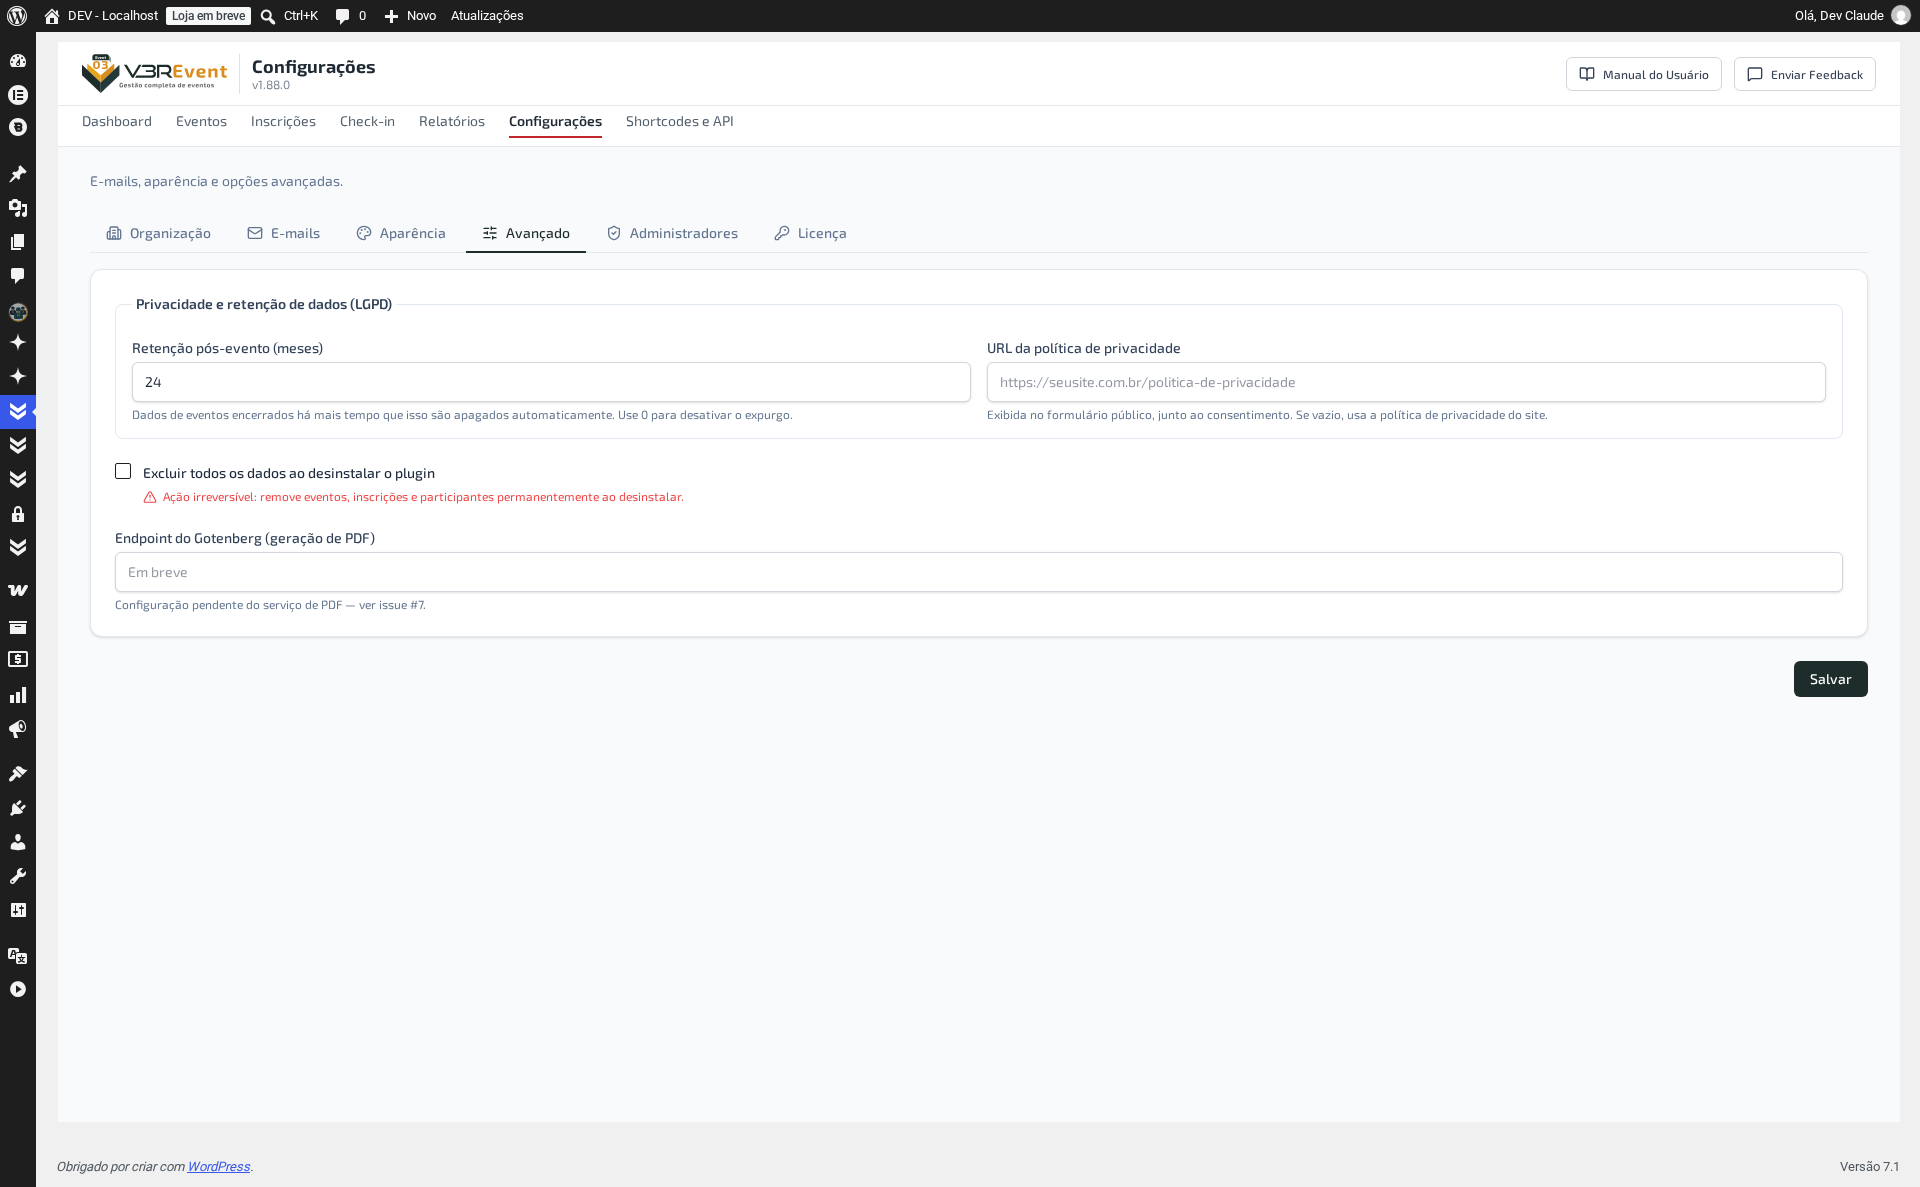
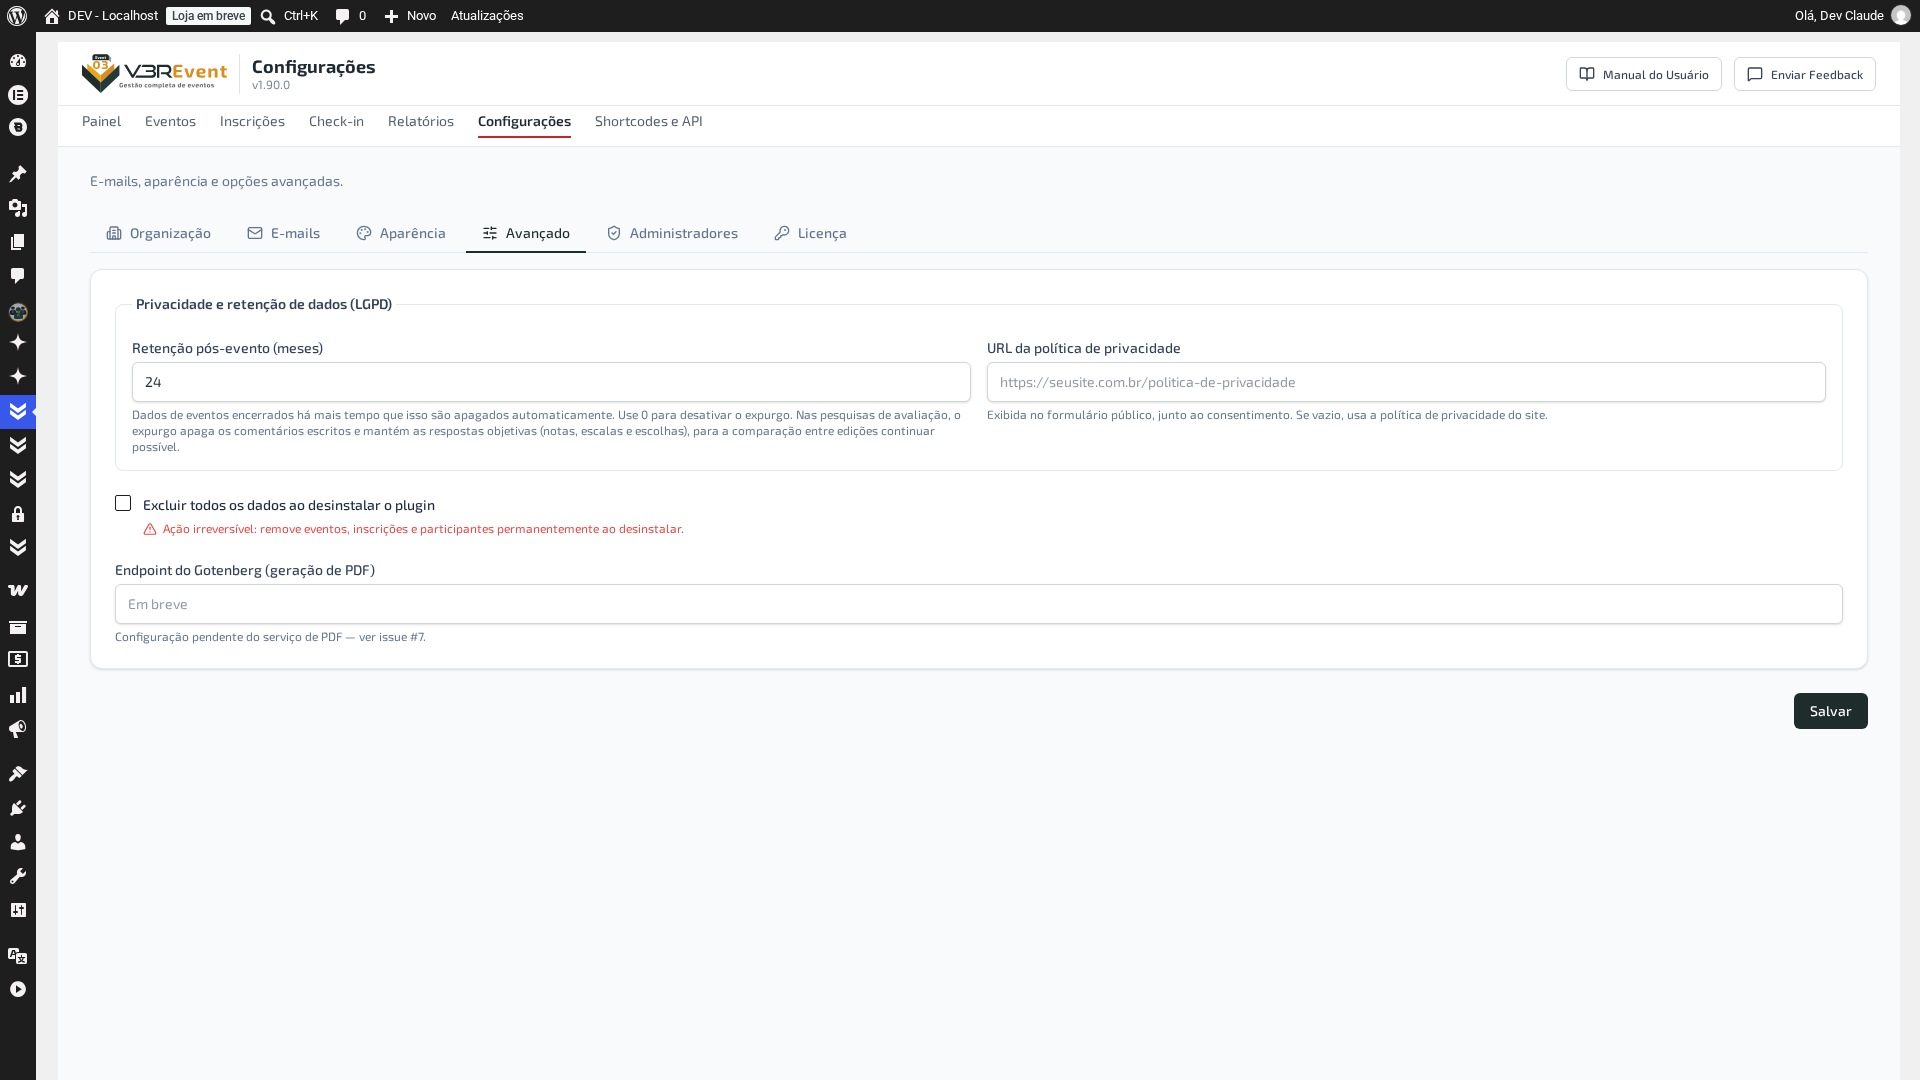
docs(manual): v1.90.0 — o que acontece com os comentários da avaliação
- Aba Avaliação e Configurações → Avançado: passado o prazo de retenção, as
  notas e escolhas permanecem e o texto escrito é apagado (#190)
- Por que um pedido de exclusão de participante não mexe nas respostas de
  avaliação — elas são anônimas, e apagar pelo único vínculo disponível
  apagaria o comentário de todos os respondentes daquele evento (#190)
- Política de privacidade: a mesma explicação em Direitos dos titulares e
  em Retenção e eliminação, para quem lê o documento direto
- Capturas das duas telas refeitas com a frase nova visível

diff --git a/legal/privacidade.md b/legal/privacidade.md
@@ -80,9 +80,13 @@ A responsabilidade por contratar esses serviços e garantir conformidade (inclus
 
 Os titulares (os participantes e responsáveis) têm os direitos previstos na LGPD — confirmação, acesso, correção, eliminação, portabilidade, entre outros. Como controlador, você os atende diretamente: o plugin oferece ferramentas de **exportação** e **exclusão/anonimização** de dados de um titular (por código de inscrição ou e-mail), além das telas de inscrições e relatórios para localizar e conferir os registros.
 
+**Exceção: as respostas de avaliação.** Um pedido de exclusão **não** apaga nem altera as respostas da pesquisa de avaliação do evento. Como a pesquisa é anônima, não existe vínculo entre a resposta e a pessoa — o único identificador disponível é o do evento, e apagar por ele eliminaria o comentário de **todos** os respondentes, não só do titular que pediu. O risco de identificação nos comentários escritos é tratado pelo **prazo de retenção** (abaixo), não pela exclusão individual.
+
 ### B.6. Retenção e eliminação
 
 O V3REvent permite definir um **prazo de retenção** (Configurações → Avançado): os dados de inscritos de eventos já encerrados são **expurgados automaticamente** fora dessa janela. Você define o prazo conforme sua necessidade e obrigações legais. A exclusão manual de uma inscrição pelo painel também remove os respectivos registros.
+
+Nas pesquisas de **[Avaliação](/modulos/editor-evento/#avaliação)**, o expurgo apaga só os **comentários escritos**; as respostas objetivas (notas, escalas e escolhas) permanecem, para a comparação entre edições continuar possível.
 
 ### B.7. Segredos e segurança
 

diff --git a/modulos/editor-evento.md b/modulos/editor-evento.md
@@ -448,6 +448,11 @@ Reúne a **pesquisa de avaliação** do evento e a sua retrospectiva, em quatro 
 
 A pesquisa é **anônima** e liberada apenas para quem **fez check-in**: cada participante recebe um link próprio (`avaliacao/{código}`), responde sem login, e a resposta **não fica vinculada à pessoa**. Veja **[No dia e depois](/guia-do-gestor/no-dia-e-depois/)**.
 
+{: .note }
+> **Passado o prazo de retenção** (definido em **[Configurações → Avançado](/modulos/configuracoes/#avançado)**), os **comentários escritos** — as respostas de texto livre — são apagados junto com os demais dados do evento: é onde alguém pode ter se identificado ou citado outra pessoa. As **notas e as respostas de múltipla escolha permanecem**, para você continuar comparando esta edição com as próximas.
+
+Como a pesquisa é anônima, **não existe "a resposta desta pessoa"**: um pedido de exclusão de participante (direito do titular) não mexe nas respostas de avaliação — apagar pelo único vínculo disponível apagaria o comentário de **todos** os respondentes daquele evento. O risco de identificação já é coberto pelo prazo de retenção acima. Veja **[Política de Privacidade](/legal/privacidade/)**.
+
 ## Patrocinadores
 
 Cadastra os **patrocinadores e apoiadores** do evento. A aba é **opcional** — eventos sem patrocinadores ficam em branco.

diff --git a/novidades.md b/novidades.md
@@ -12,6 +12,12 @@ O que mudou no V3REvent, em linguagem simples — **da mais recente para a mais 
 
 ---
 
+## Expurgo da avaliação poupa as notas, e o pedido de exclusão não mexe nos comentários de ninguém
+**v1.90.0 · setembro de 2026**
+
+- **Passado o prazo de retenção, só os comentários escritos das avaliações são apagados.** As notas e as respostas de múltipla escolha **continuam**, para você comparar uma edição com a anterior — é só o texto digitado à mão que some, porque é onde alguém pode ter se identificado ou citado outra pessoa. A aba **[Avaliação](/modulos/editor-evento/#avaliação)** do evento e a tela de **[Configurações → Avançado](/modulos/configuracoes/#avançado)** agora avisam isso.
+- **Um pedido de exclusão de participante não altera as respostas de avaliação.** A pesquisa é anônima, então não existe "a resposta desta pessoa" — apagar pelo único vínculo disponível apagaria o comentário de todos os respondentes daquele evento. Veja **[Política de Privacidade](/legal/privacidade/)**.
+
 ## Avisa quem tenta se inscrever de novo, mais quatro modelos de e-mail editáveis, e o Painel com um nome só
 **v1.89.0 · setembro de 2026**
 

diff --git a/modulos/configuracoes.md b/modulos/configuracoes.md
@@ -66,7 +66,7 @@ Privacidade, geração de PDF e manutenção.
 
 ![Configurações — aba Avançado](/assets/screenshots/config-avancado.png)
 
-- **Retenção de dados (LGPD)** — por quantos meses manter os dados de inscritos de eventos encerrados (0 = desativado). Fora dessa janela, o expurgo é automático.
+- **Retenção de dados (LGPD)** — por quantos meses manter os dados de inscritos de eventos encerrados (0 = desativado). Fora dessa janela, o expurgo é automático. Nas pesquisas de **[Avaliação](/modulos/editor-evento/#avaliação)**, o expurgo apaga só os **comentários escritos** — notas, escalas e escolhas continuam, para você comparar uma edição com a próxima.
 - **URL da política de privacidade** — o link que aparece no consentimento do formulário.
 - **Gotenberg** — campo reservado para o endpoint de um serviço externo de geração de PDF de alta fidelidade. Aparece marcado como **"Em breve"** e ainda não é editável; enquanto isso, o plugin gera os PDFs internamente.
 - **Excluir dados ao desinstalar** — opção para remover tudo do banco caso o plugin seja desinstalado.
